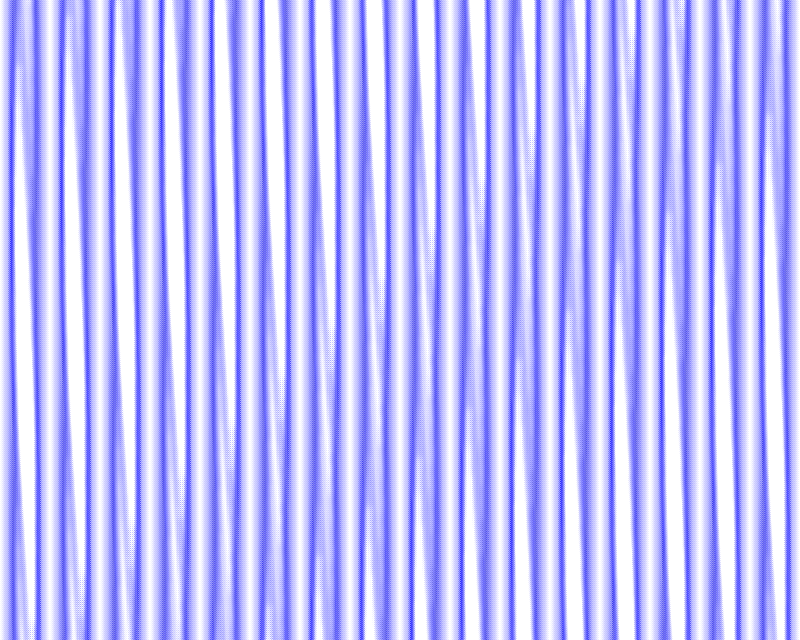
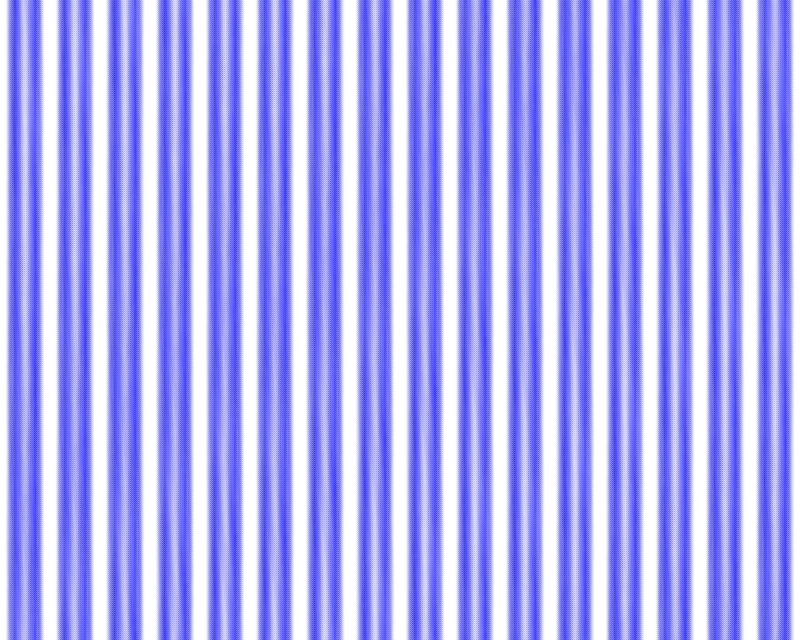
l

diff --git a/assets/raw/laser.html b/assets/raw/laser.html
@@ -35,14 +35,15 @@ tm.main(function() {
     var draw = function(frame) {
         canvas.globalCompositeOperation = "lighter";
         for (var y = canvas.height; y >= 0; y--) {
-            canvas.p(25, y, 25, col0, col2);
+            canvas.p(25, y, 20, col0, col2);
         }
+        // canvas.globalCompositeOperation = "source-over";
         for (var c = 0; c < noise.length; c++) {
-            var a = noise[c]*20 + frame/frameSize*Math.PI*2;
+            var a = (c/noise.length + frame/frameSize) * Math.PI*2;
             for (var y = canvas.height; y >= 0; y--) {
-                var alpha = (1 + Math.cos(a)) * 0.015;
+                var alpha = (1 + Math.cos(a)) * 0.1 * noise[c];
                 if (alpha > 0.0001)
-                    canvas.p(Math.sin(a)*8 + 25, y, 10, col1.concat([alpha]), col2);
+                    canvas.p(Math.sin(a)*12 + 25, y, 8, col1.concat([alpha]), col2);
                 a -= 0.008;
             }
         }
@@ -80,7 +81,7 @@ var createPNoise = function(dataSize) {
         return a*(1-f) + b*f;
     };
     var createLayer = function(interval) {
-        if (interval < 1) { 
+        if (interval < 1) {
             return null;
         }
 
